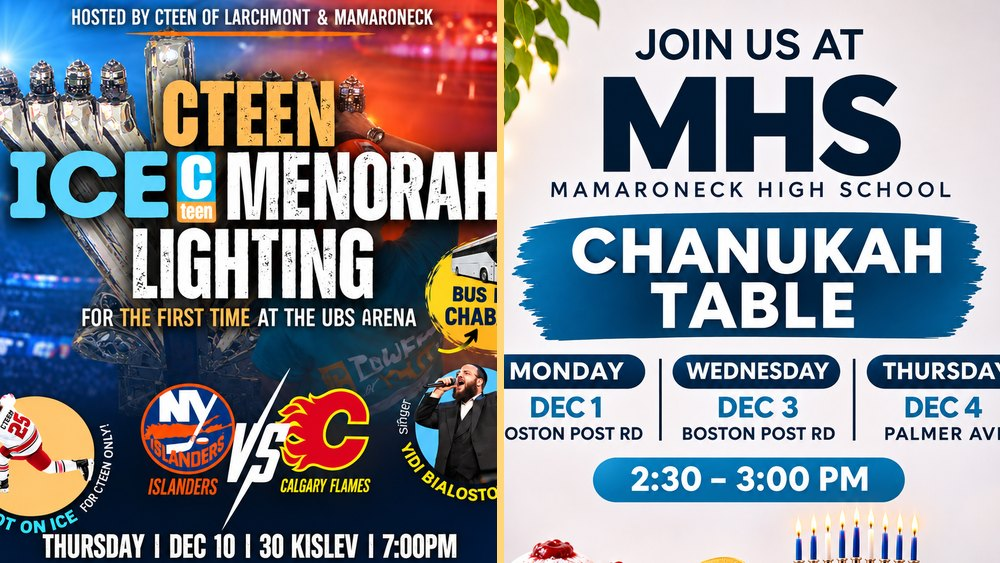
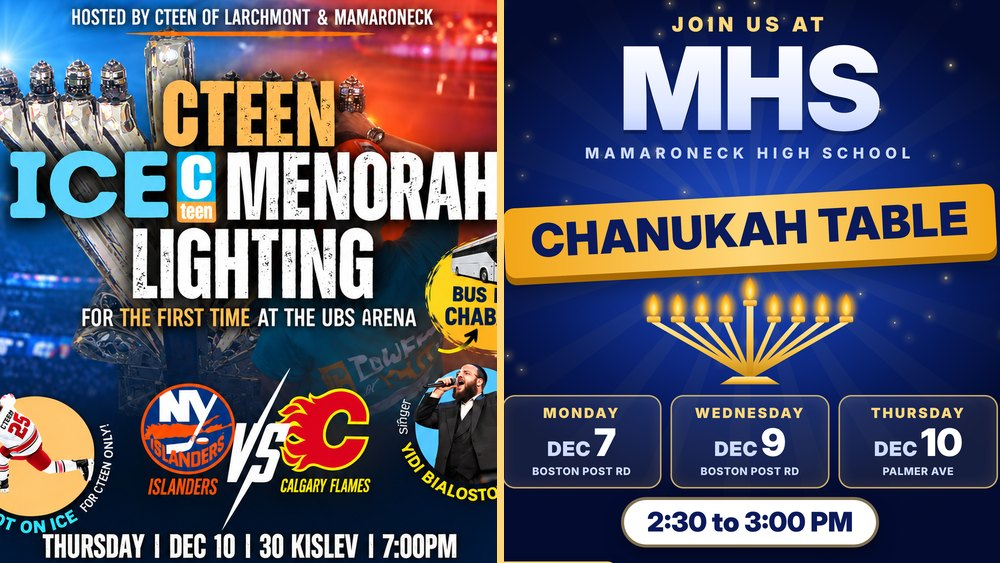
MHS Chanukah table flyer: correct Chanukah dates (Dec 7, 9, 10), straight-arm menorah, refreshed design
Claude-Session: https://claude.ai/code/session_01MfHFYK19hEJyLv1ipNp4WK

diff --git a/cteen.html b/cteen.html
@@ -49,7 +49,7 @@ footer a{color:var(--gold2);font-weight:800}
 <p class="tag">Chanukah nights just for teens.</p>
 <div class="flyers">
 <a href="https://cteen.com/islanders" target="_blank" rel="noopener"><img class="flyer" src="cteen-ice-menorah.jpg" alt="CTeen Ice Menorah Lighting at UBS Arena, Islanders vs Calgary Flames. Thursday, Dec 10, 30 Kislev, 7:00 PM. Bus from Chabad101. Tickets from $55 at cteen.com/islanders. Info: Rabbi Chaim 917-543-4153."></a>
-<img class="flyer" src="cteen-mhs-table.jpg" alt="Chanukah Table at Mamaroneck High School. Monday Dec 1 and Wednesday Dec 3 on Boston Post Rd, Thursday Dec 4 on Palmer Ave, 2:30 to 3:00 PM. Donuts, gelt and menorahs, all free.">
+<img class="flyer" src="cteen-mhs-table.jpg" alt="Chanukah Table at Mamaroneck High School. Monday Dec 7 and Wednesday Dec 9 on Boston Post Rd, Thursday Dec 10 on Palmer Ave, 2:30 to 3:00 PM. Donuts, gelt and menorahs, all free.">
 </div>
 <div class="ctas" style="margin-top:22px"><a class="btn gold" href="https://cteen.com/islanders" target="_blank" rel="noopener">Get Islanders tickets</a></div>
 </section><footer class="gut"><div class="in">Chabad of Larchmont &amp; Mamaroneck · Questions? <a href="mailto:info@chabad101.com">info@chabad101.com</a></div></footer></body></html>
